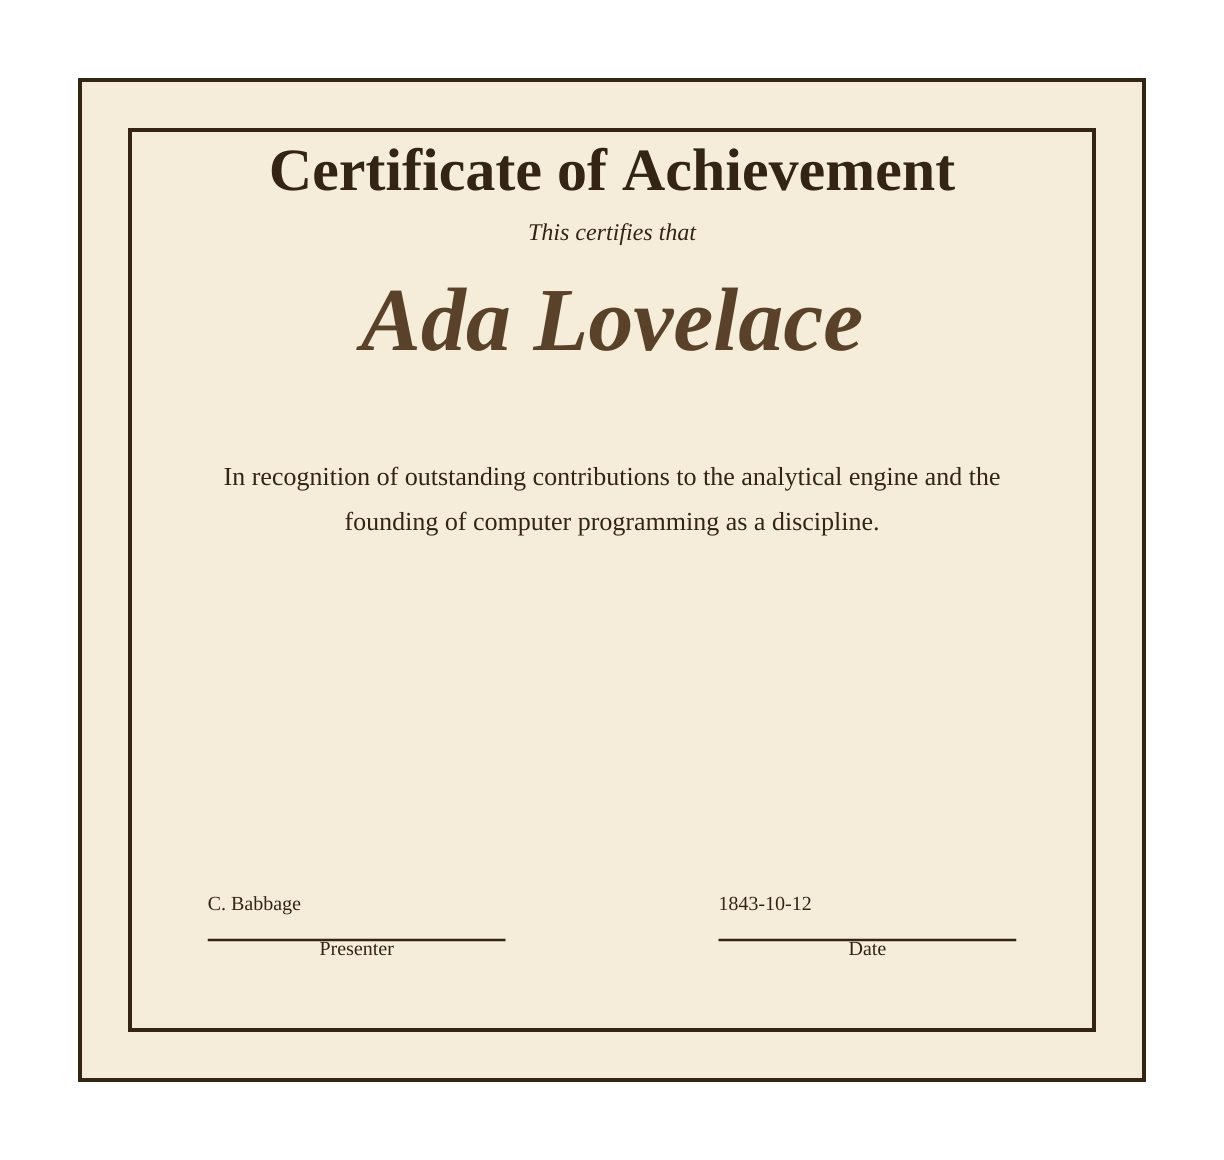
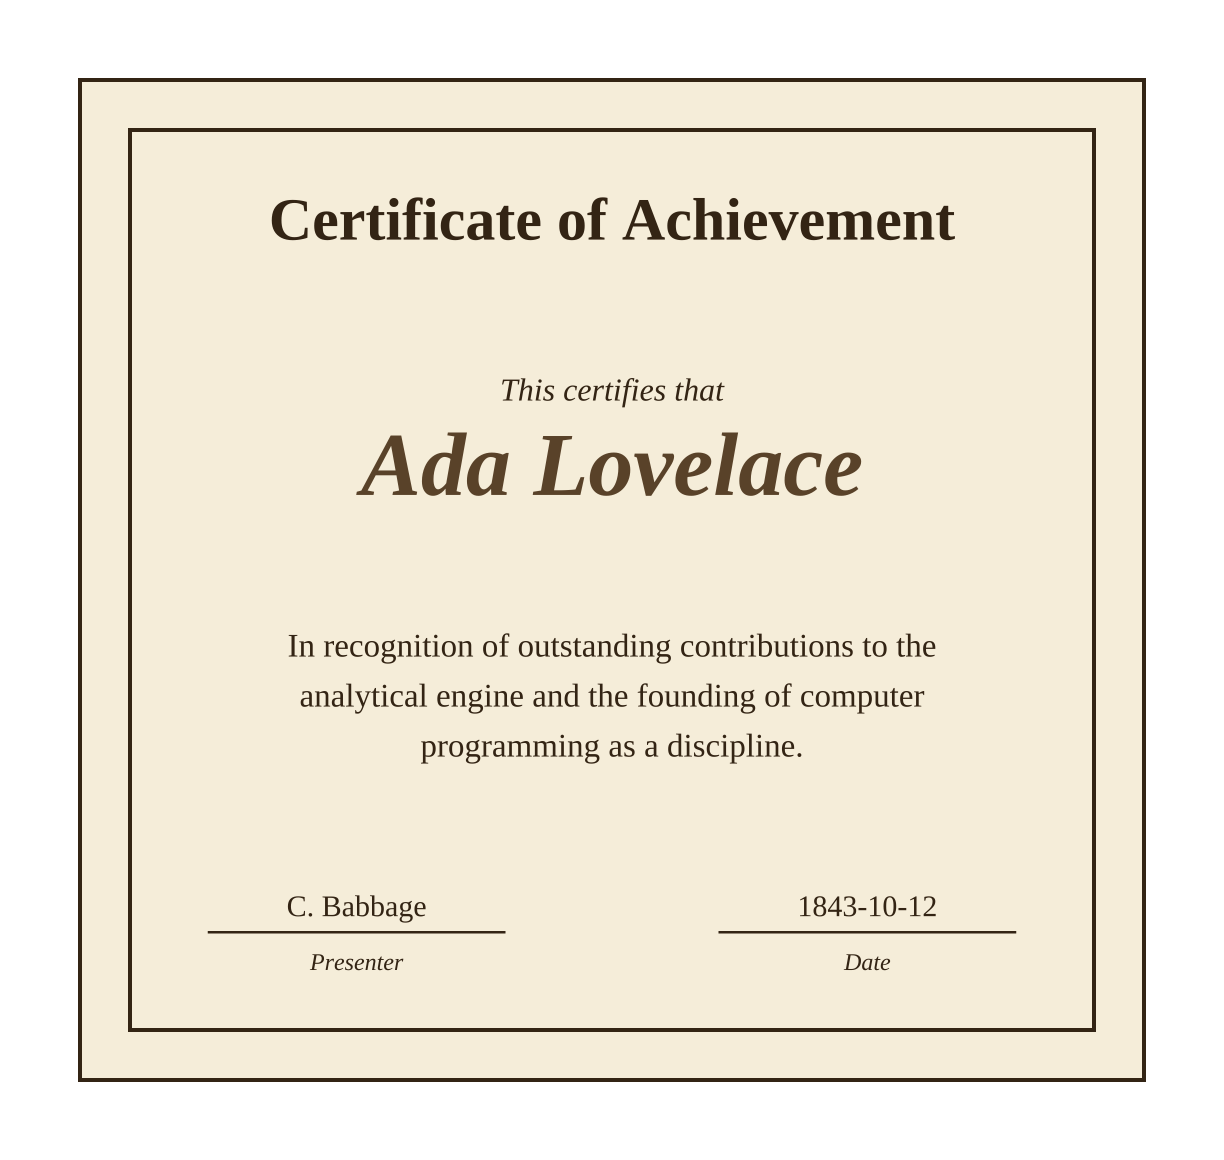
brand: re-render certificate and social preview with #954's pgcertificate (#927)
Both are regenerated from this branch's own commands (art/brand/social-preview.ps
header); the certificate is byte-identical to the render that passed #956's
perceptual review, and only the certificate card changed in the preview.

Claude-Session: https://claude.ai/code/session_016y8NtQFumGuLepCfkr17xP

diff --git a/notes/927-branding.md b/notes/927-branding.md
@@ -45,6 +45,8 @@ and no speed, memory or large-document claims until #929 publishes numbers.
   page size, `pscat --page 612x580 --dpi 144 --png
   art/brand/renders/certificate.png examples/template_certificate.ps`. It is
   the document half of the README, site and org-profile pairs.
+  Re-rendered, with the social preview, after #954 fixed `pgcertificate`'s
+  spacing (PR #956), which is what the first perceptual review had failed.
 - The document specimen: Field Notes reads as a journal page (art), and
   `examples/dataviz_paper.ps` has captions that collide with its bars, so
   the plain, crisply typeset certificate won.
